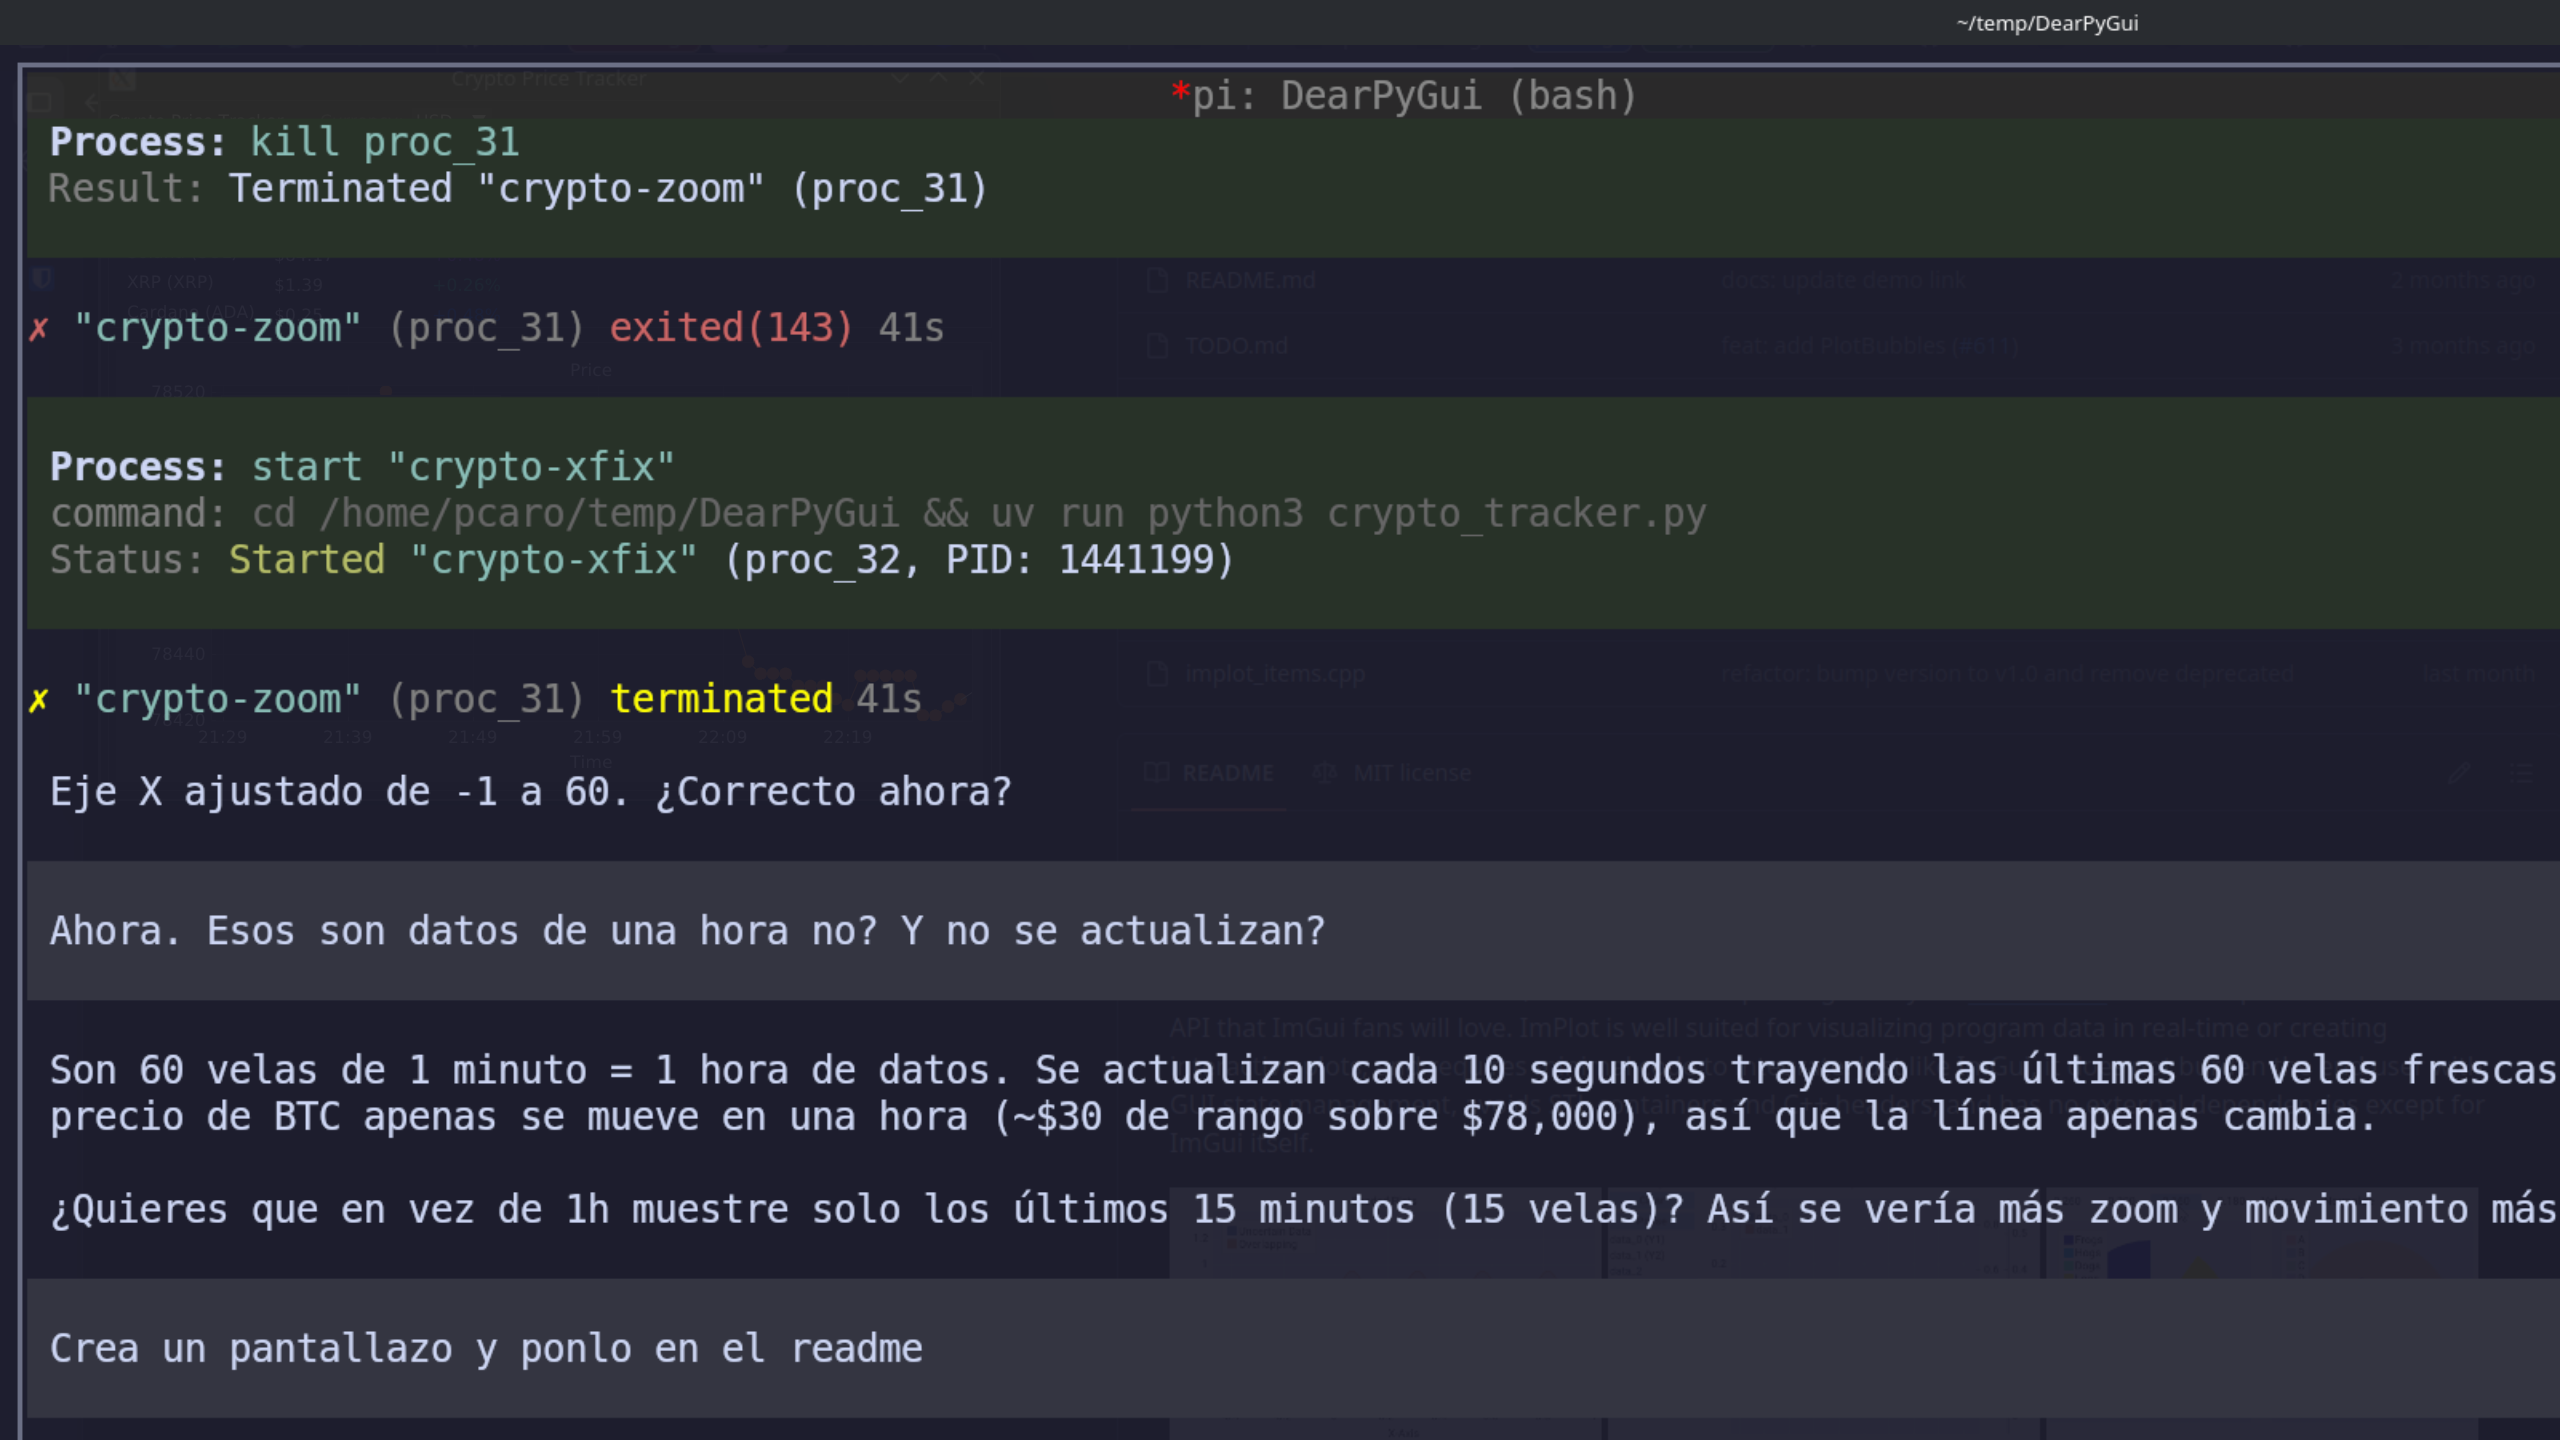
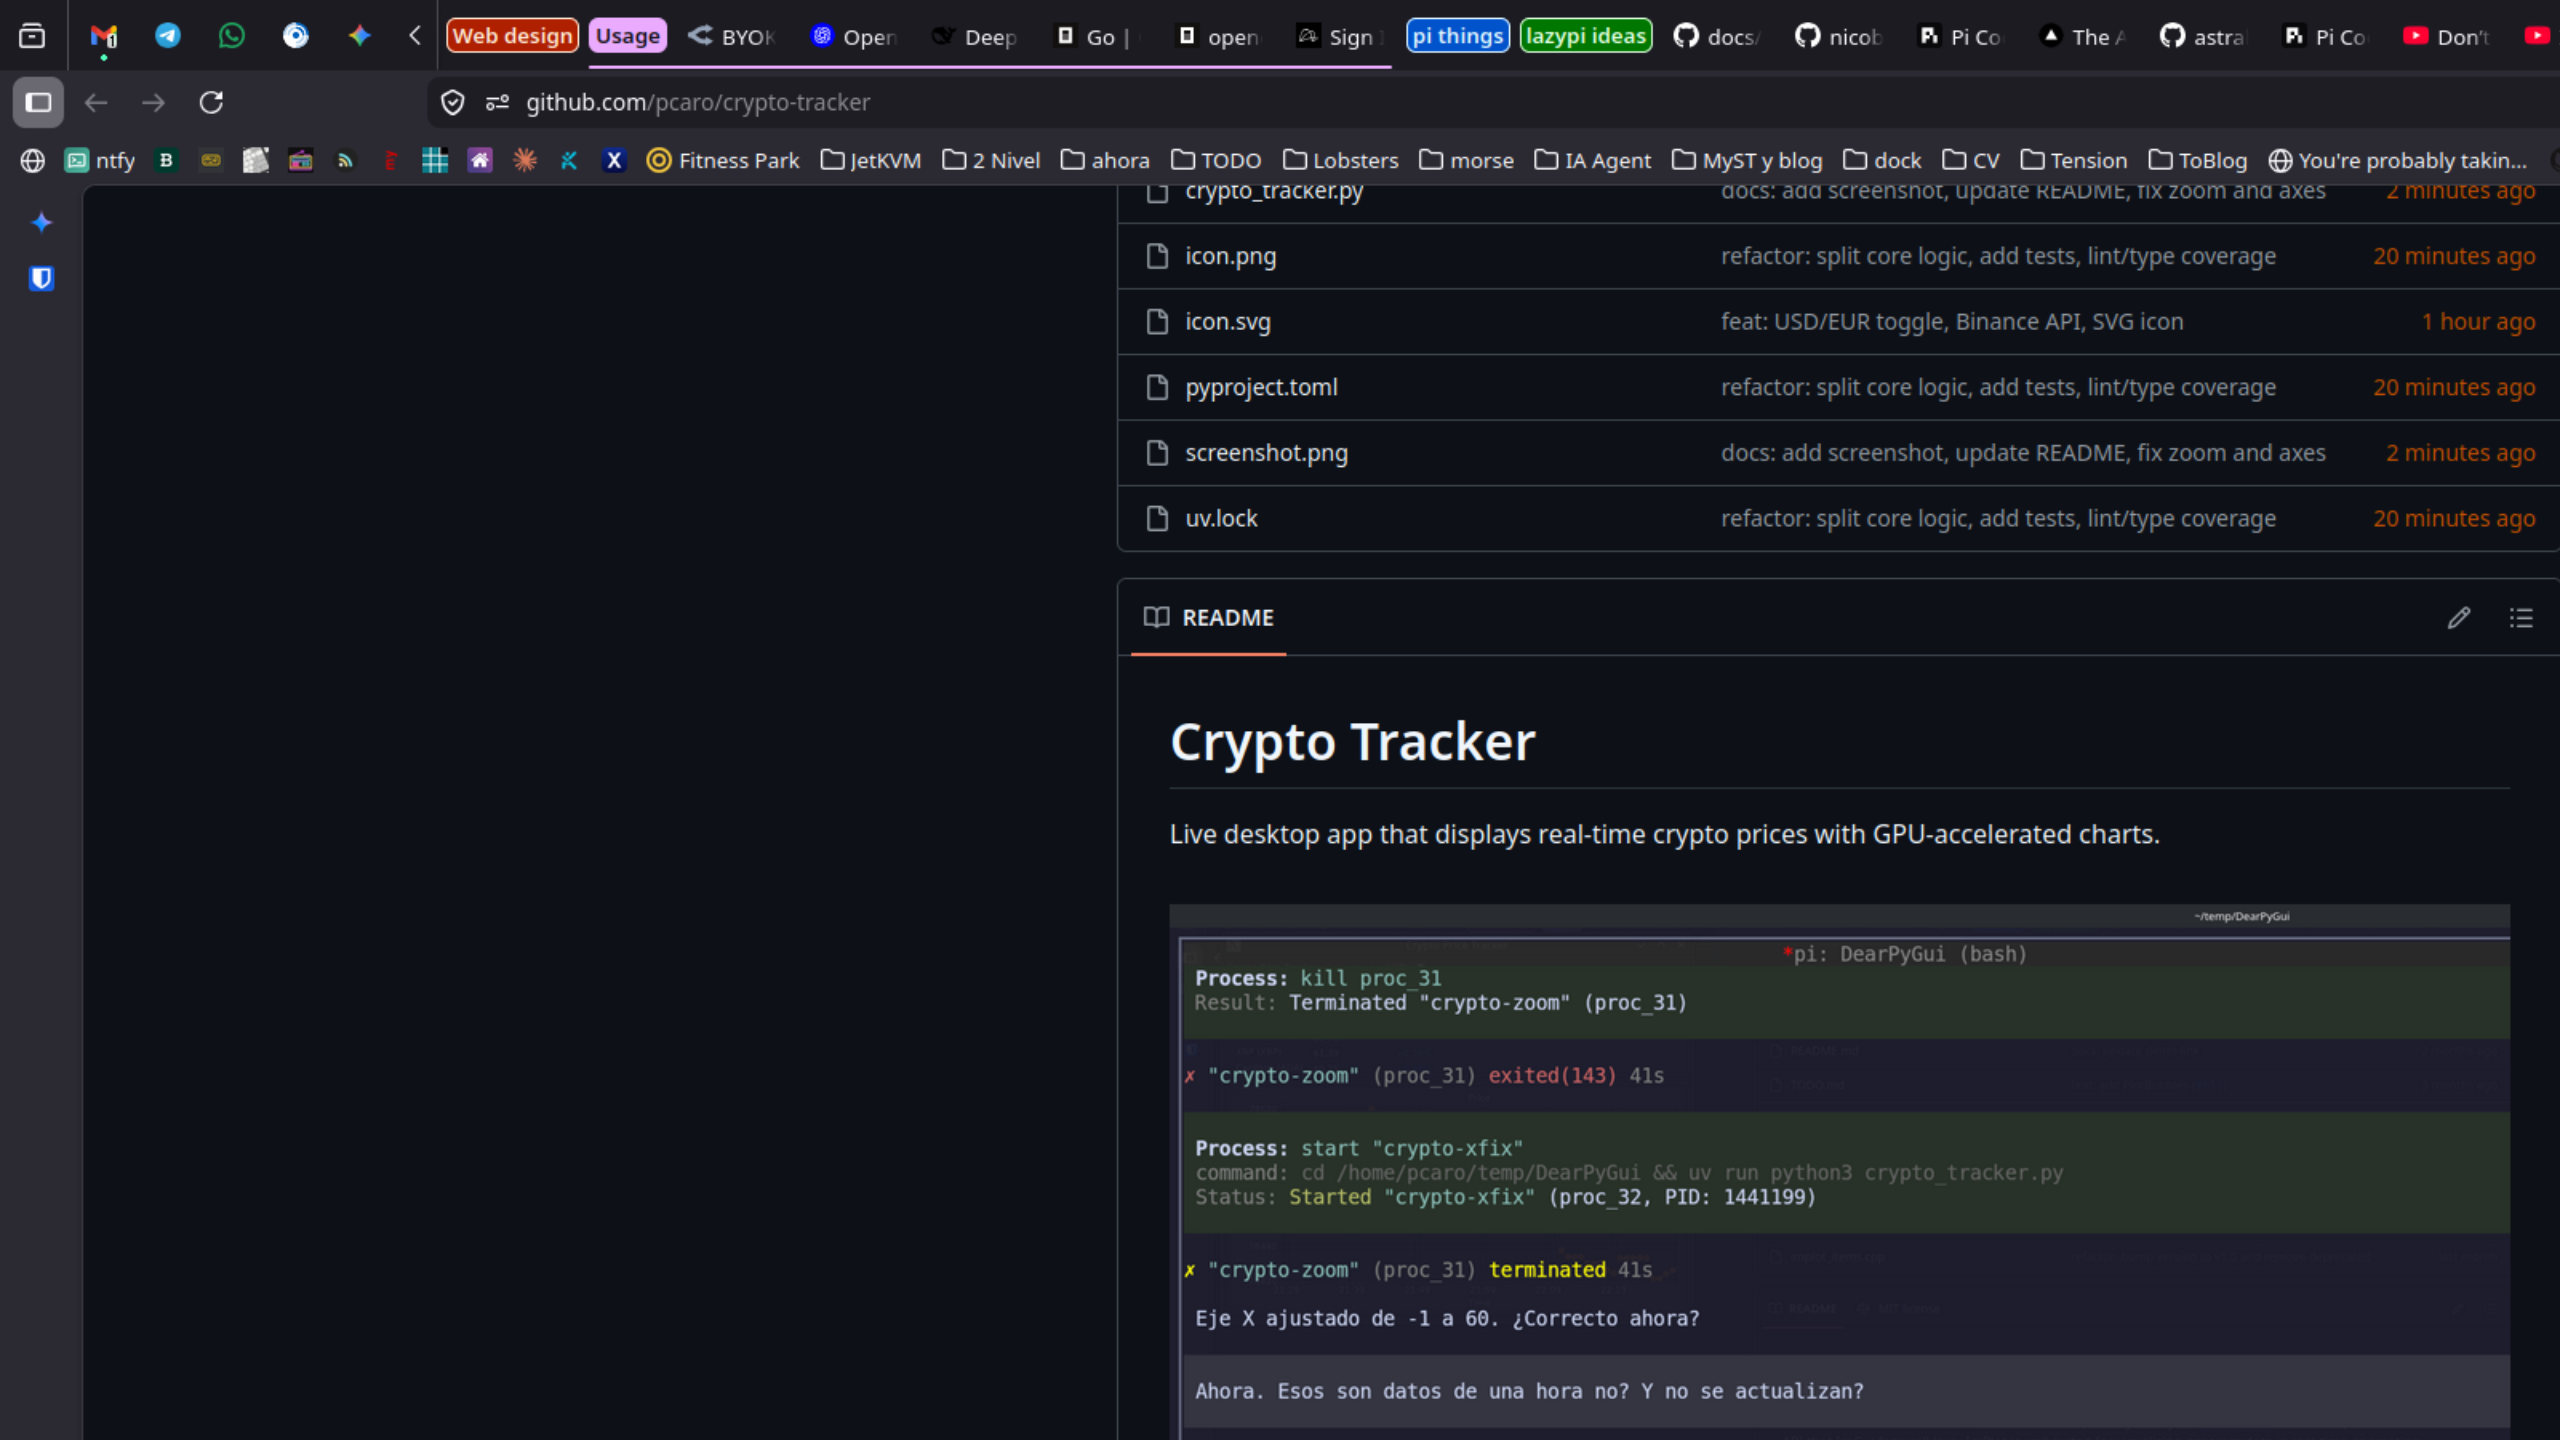
docs: update screenshot, add project credits
New screenshot shows only the app window.
Added footer noting this is a playground for Dear PyGui
and DeepSeek V4 Pro.

diff --git a/README.md b/README.md
@@ -63,3 +63,7 @@ icon.png            — App icon
 ## License
 
 MIT
+
+---
+
+*Built as a playground to explore [Dear PyGui](https://github.com/hoffstadt/DearPyGui) GPU-accelerated UIs and [DeepSeek V4 Pro](https://deepseek.com) as an AI coding assistant.*